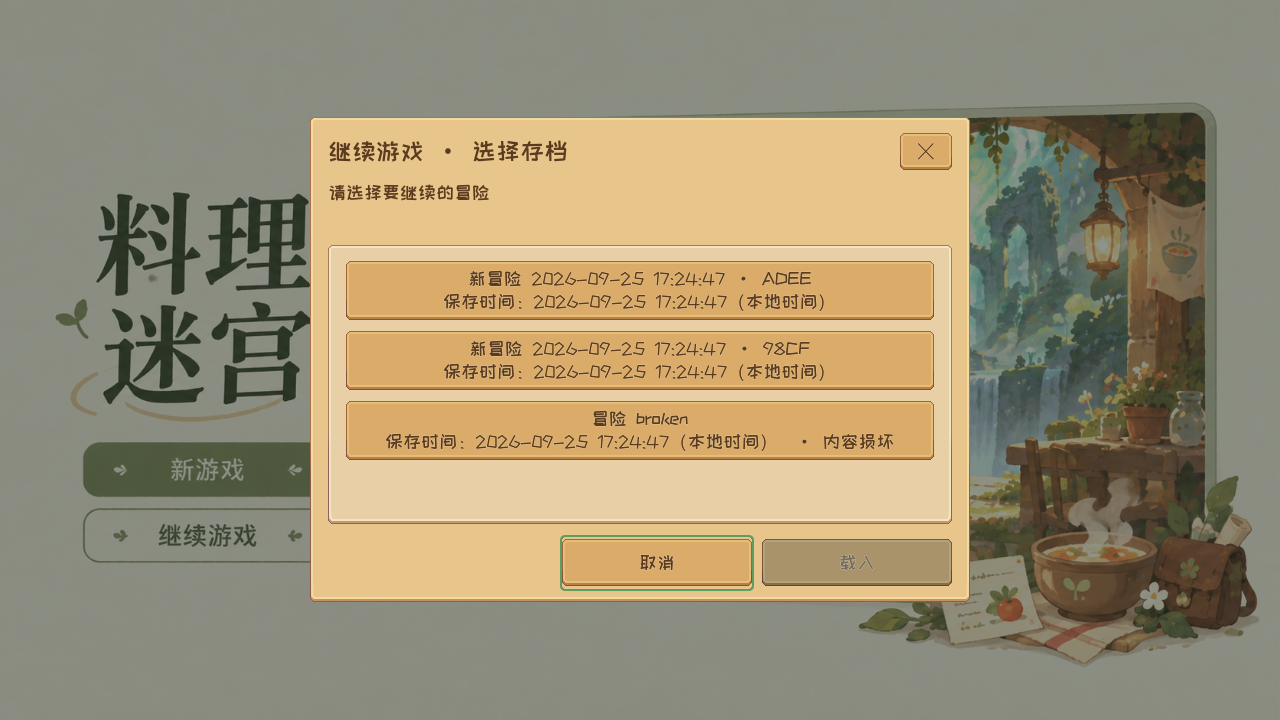
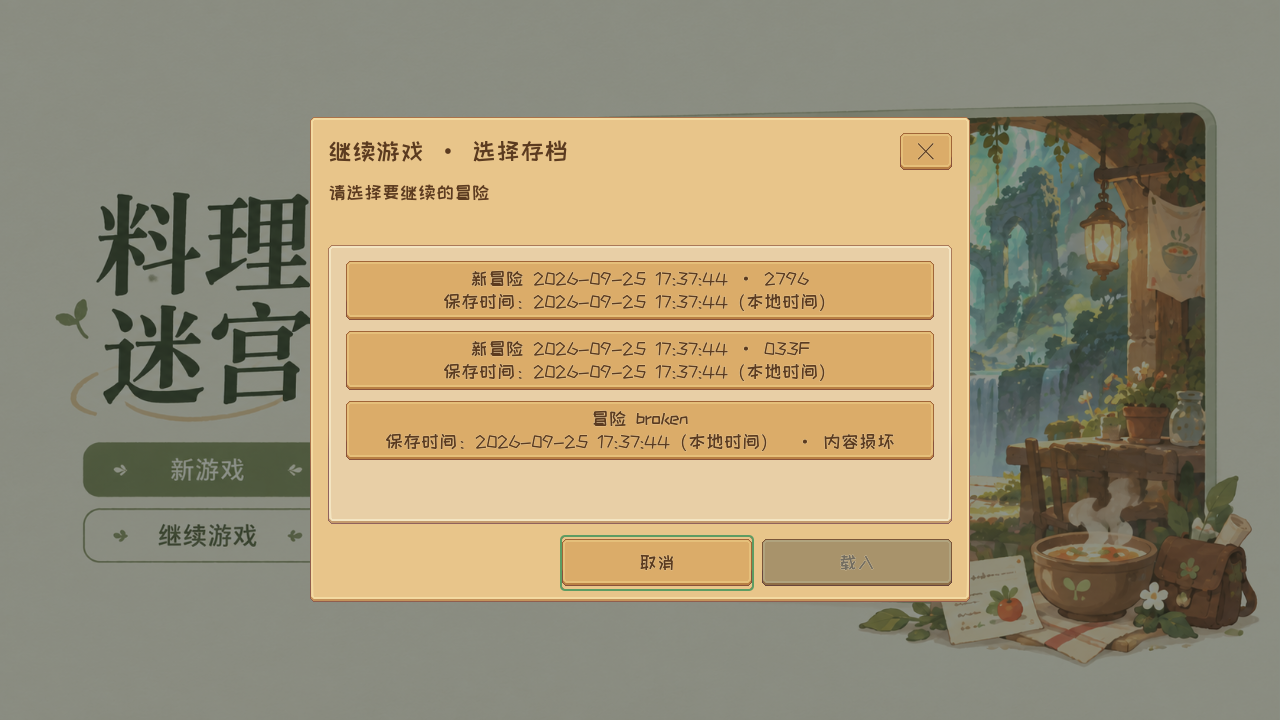
test: record start screen integration acceptance

diff --git a/output/start_01/主任务验收.md b/output/start_01/主任务验收.md
@@ -1,0 +1,16 @@
+# START-01 主任务接收验收
+
+状态：已审查、接入主工作区并完成相关最终验收。
+执行提交：cf312972603750db015945f532a8f94e3a11200f，codex/start-01。
+接收提交：c1f9ef6，master。主工作区：F:\maze_code。执行工作树保留。
+
+执行任务明确停止写入后，主任务审查了生产差异及两尺寸截图，独立重跑全部验收，再接收提交到主工作区，重跑同一组验收验证现有用户改动环境下的集成。
+实际命令：& ./tools/tests/start_01_run.ps1 -Import -Modes state,restart,visual-new-1152,visual-continue-1280,visual-continue-b-1152,visual-failure-1152,lifecycle,prologue-migration,prologue-atomic,visual-prologue-replay
+最终结果：12 项命令全部通过；10 份报告共 198 断言、0 失败；最终标准错误日志为空。相关 JSON、PNG 和日志已更新为主工作区验收结果。所有测试使用隔离 user://。
+
+首次独立工作树编辑器检查因原资源旁文件清理后重新导入，出现3条 get_multiple_md5 / f.is_null() 错误及缺少 uid 的警告；没有忽略它们。保留首次日志于执行工作树 output/start_01/review-initial-editor.*。完成导入后，仅重新执行相同命令，编辑器和全部游戏验收通过；这说明当前导入状态已通过，不声称修复了引擎缓存根因。
+
+接收首次被 project.godot 的本地修改标记阻止。git diff 为空，git hash-object --path=project.godot project.godot 与 HEAD:project.godot 一致，均为 aabe6d4d059fc71a46711e60e5e0286373fb4669。刷新该文件索引后确认暂存区无内容差异，再接收提交。入口按授权改为封面；其他19个原有已修改文件在集成和最终测试前后 SHA256 均一致，无覆盖用户改动。未跟踪资料未清理，未操作真实存档，未推送。
+
+边界：未做打包导出、操作系统物理鼠标录制、多实例并发或断电测试。图形验收使用真实渲染和视口输入事件，证明本票覆盖场景，不扩张为整个游戏完成。
+稳定知识与重新审查条件参见交付说明的活动档、迁移和重播约定；最终证据以当前目录 latest-run.json 和对应报告为准。
